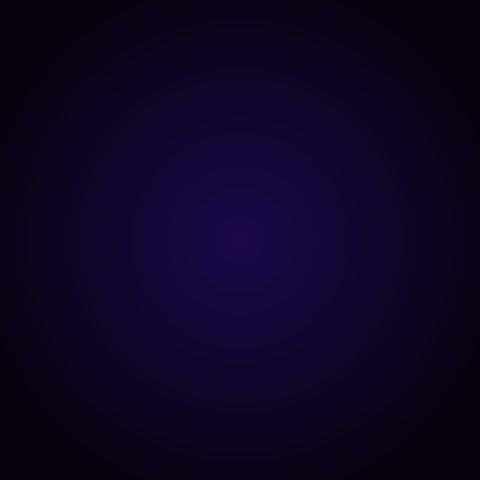
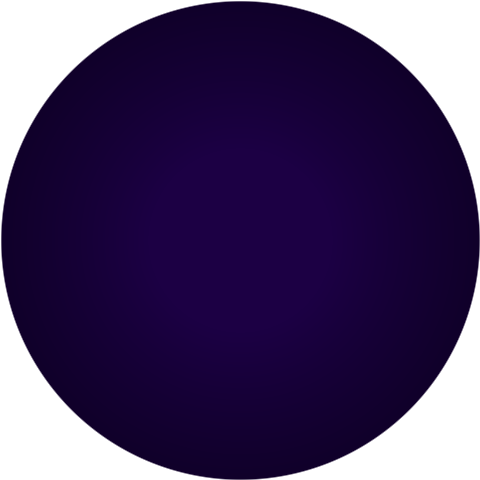
bg

Changed region(s): [[0.0, 0.0, 1.0, 1.0], [0.5312, 0.5312, 1.0, 1.0]]

diff --git a/watchface/editTypesUtil.js b/watchface/editTypesUtil.js
@@ -53,6 +53,7 @@ const weatherArray  = Array.from({ length: 29 }, (_, i) => `weather/${i}.png`)
 const moonArray     = Array.from({ length: 29 }, (_, i) => `moon/${i + 1}.png`)
 const heartArray    = Array.from({ length: 6 },  (_, i) => `${heartPath}${i + 1}.png`)
 const uviArray      = Array.from({ length: 5 },  (_, i) => `${UVIPath}${i + 1}.png`)
+const aqiArray      = Array.from({ length: 6 },  (_, i) => `aqi/${i + 1}.png`)
 const windDirArray  = Array.from({ length: 8 },  (_, i) => `wind/wind_${i}.png`)
 
 // ─── Slot geometry ────────────────────────────────────────────────────────────
@@ -101,6 +102,7 @@ const WIDGET_DEFS = {
   // ── speciali ──────────────────────────────────────────────────────────────
   [edit_type.HEART]:             { r:'heart',    dt: data_type.HEART,             icon:'heart',                     app:SYSTEM_APP_HR,           sysText:true },
   [edit_type.UVI]:               { r:'uvi',      dt: data_type.UVI,               icon:'UVI',                       app:SYSTEM_APP_WEATHER,      invalid:true },
+  [edit_type.AQI]:               { r:'aqi',      dt: data_type.AQI,               icon:'aqi',                       app:SYSTEM_APP_WEATHER,      invalid:true },
   [edit_type.MOON]:              { r:'moon',     dt: data_type.MOON,                                                app:SYSTEM_APP_SUN_AND_MOON },
   [edit_type.WEATHER]:           { r:'weather',  dt: data_type.WEATHER_CURRENT,                     bg:'weather',   app:SYSTEM_APP_WEATHER,      unit:'degree', neg:true, invalid:'w' },
   // ── nuovi ─────────────────────────────────────────────────────────────────
@@ -121,6 +123,7 @@ export const widgetOptionalArray = [
   { type: edit_type.BATTERY,      preview: previewPath + 'bat.png'      },
   { type: edit_type.HEART,        preview: previewPath + 'heart.png'    },
   { type: edit_type.UVI,          preview: previewPath + 'UVI.png'      },
+  { type: edit_type.AQI,          preview: previewPath + 'aqi.png'      },
   { type: edit_type.PAI,          preview: previewPath + 'Pai.png'      },
   { type: edit_type.DISTANCE,     preview: previewPath + 'dis.png'      },
   { type: edit_type.STAND,        preview: previewPath + 'stand.png'    },
@@ -350,6 +353,29 @@ export default class EditTypesUtil {
           type: def.dt, show_level: show_level.ONLY_NORMAL,
         }).addEventListener(event.CLICK_DOWN, launch)
         // indice UVI gestito dal sistema via TEXT_FONT
+        createWidget(widget.TEXT_FONT, {
+          x: numX, y: numY, w: bgw, h: numH,
+          type: def.dt, text_size: px(26), color: 0xffffff,
+          align_h: align.CENTER_H, align_v: align.CENTER_V,
+          show_level: show_level.ONLY_NORMAL,
+        }).addEventListener(event.CLICK_DOWN, launch)
+        if (iconPath) {
+          createWidget(widget.IMG, {
+            x: iconX, y: iconY, src: iconPath,
+            show_level: show_level.ONLY_NORMAL,
+          }).addEventListener(event.CLICK_DOWN, launch)
+        }
+        break
+
+      case 'aqi':
+        createWidget(widget.IMG, {
+          x: bgx, y: bgy, alpha: 255, src: 'aqi/aqi0.png',
+          show_level: show_level.ONLY_NORMAL,
+        }).addEventListener(event.CLICK_DOWN, launch)
+        createWidget(widget.IMG_LEVEL, {
+          x: bgx, y: bgy, image_array: aqiArray, image_length: aqiArray.length,
+          type: def.dt, show_level: show_level.ONLY_NORMAL,
+        }).addEventListener(event.CLICK_DOWN, launch)
         createWidget(widget.TEXT_FONT, {
           x: numX, y: numY, w: bgw, h: numH,
           type: def.dt, text_size: px(26), color: 0xffffff,

diff --git a/watchface/colorSelector.js b/watchface/colorSelector.js
@@ -7,7 +7,7 @@ const BASE = 0x186a0
 export const NO_OVERRIDE_TYPE = BASE + 0
 
 // ── Named color constants ─────────────────────────────────────────────────────
-// Use these in themes.js for readable references: COLOR.WARM_GOLD, COLOR.CORAL, …
+// Use these in backgrounds.js for readable references: COLOR.WARM_GOLD, COLOR.CORAL, …
 export const COLOR = {
   // ── Curated override palette (IDs 1-12, shown in per-zone picker) ──────────
   WHITE:             BASE +  1,

diff --git a/watchface/backgrounds.js b/watchface/backgrounds.js
@@ -1,0 +1,8 @@
+export const backgrounds = [
+  { id: 0, preview: 'bg/BG_black.png',  path: 'bg/BG_black.png',  name: 'Nero'   },
+  { id: 1, preview: 'bg/BG_grey.png',   path: 'bg/BG_grey.png',   name: 'Grigio' },
+  { id: 2, preview: 'bg/BG_cosmo.png',  path: 'bg/BG_cosmo.png',  name: 'Cosmo'  },
+  { id: 3, preview: 'bg/BG_aurora.png', path: 'bg/BG_aurora.png', name: 'Aurora' },
+  { id: 4, preview: 'bg/BG_braci.png',  path: 'bg/BG_braci.png',  name: 'Braci'  },
+  { id: 5, preview: 'bg/BG_abisso.png', path: 'bg/BG_abisso.png', name: 'Abisso' },
+]

diff --git a/watchface/index.js b/watchface/index.js
@@ -5,7 +5,7 @@ import { Time } from '@zos/sensor'
 import { launchApp, SYSTEM_APP_CALENDAR } from '@zos/router'
 import { LocalStorage } from '@zos/storage'
 import NumberToText from './numberToText.js'
-import { backgrounds } from './themes.js'
+import { backgrounds } from './backgrounds.js'
 import EditTypesUtil, { widgetOptionalArray, BLANK_TYPE } from './editTypesUtil.js'
 import { getLanguage } from '@zos/settings'
 import {

diff --git a/tools/gen_backgrounds.py b/tools/gen_backgrounds.py
@@ -1,0 +1,131 @@
+#!/usr/bin/env python3
+"""
+Regenerate watchface background images.
+- 480x480 RGBA PNG
+- Circular mask with anti-aliased edge (transparent corners)
+- Smooth gradients computed in linear light, saved in sRGB
+"""
+
+import numpy as np
+from PIL import Image
+import os
+
+SIZE   = 480
+CX, CY = SIZE // 2, SIZE // 2
+OUT    = os.path.join(os.path.dirname(__file__), '..', 'assets', 'default-target.r', 'bg')
+
+# ── Helpers ───────────────────────────────────────────────────────────────────
+
+def srgb_to_linear(c):
+    return np.where(c <= 0.04045, c / 12.92, ((c + 0.055) / 1.055) ** 2.4)
+
+def linear_to_srgb(c):
+    c = np.clip(c, 0.0, 1.0)
+    return np.where(c <= 0.0031308, c * 12.92, 1.055 * c ** (1.0 / 2.4) - 0.055)
+
+def circular_mask(size=SIZE, soft=1.5):
+    """Anti-aliased circle alpha [0..1]."""
+    y, x = np.ogrid[:size, :size]
+    dist = np.sqrt((x - CX) ** 2 + (y - CY) ** 2)
+    return np.clip((size / 2 - dist) / soft, 0.0, 1.0)
+
+def radial(cx=CX, cy=CY, sigma=160, size=SIZE):
+    """Gaussian radial blob, peak=1 at (cx,cy)."""
+    y, x = np.mgrid[:size, :size]
+    return np.exp(-((x - cx) ** 2 + (y - cy) ** 2) / (2.0 * sigma ** 2))
+
+def linear_grad(angle_deg=0, size=SIZE):
+    """Linear gradient 0→1 in the given direction."""
+    y, x = np.mgrid[:size, :size]
+    a = np.radians(angle_deg)
+    g = x * np.cos(a) + y * np.sin(a)
+    g = (g - g.min()) / (g.max() - g.min())
+    return g
+
+def blend(c0, c1, t):
+    """Linear interpolation between two RGB tuples [0..1], t is (H,W) array."""
+    t3 = t[:, :, np.newaxis]
+    return np.clip(np.array(c0) * (1 - t3) + np.array(c1) * t3, 0, 1)
+
+def save(name, rgb_linear, mask):
+    """Gamma-correct → uint8 → save RGBA PNG."""
+    rgb_srgb = linear_to_srgb(rgb_linear)
+    r = (rgb_srgb[:, :, 0] * 255).astype(np.uint8)
+    g = (rgb_srgb[:, :, 1] * 255).astype(np.uint8)
+    b = (rgb_srgb[:, :, 2] * 255).astype(np.uint8)
+    a = (mask * 255).astype(np.uint8)
+    img = Image.fromarray(np.stack([r, g, b, a], axis=-1), 'RGBA')
+    path = os.path.join(OUT, name)
+    img.save(path, optimize=False)
+    print(f'  {name}')
+
+mask = circular_mask()
+
+# ── BG_black ──────────────────────────────────────────────────────────────────
+# Pure black, circular
+rgb = np.zeros((SIZE, SIZE, 3))
+save('BG_black.png', rgb, mask)
+
+# ── BG_grey ───────────────────────────────────────────────────────────────────
+# Mid-dark grey, flat, circular
+base = srgb_to_linear(np.full((SIZE, SIZE, 3), 0.235))
+save('BG_grey.png', base, mask)
+
+def hex_to_linear(r, g, b):
+    """sRGB 0-255 → linear [0..1] array for blending math."""
+    return srgb_to_linear(np.array([r / 255.0, g / 255.0, b / 255.0]))
+
+# ── BG_cosmo ──────────────────────────────────────────────────────────────────
+# Very dark near-black base, subtle purple radial glow at centre
+dark   = hex_to_linear(  5,  0,  8)   # #050008  near-black indigo
+bright = hex_to_linear( 28,  0, 68)   # #1c0044  deep purple highlight
+
+blob  = radial(CX, CY, sigma=180)
+blob2 = radial(CX, CY, sigma=70) * 0.5   # tighter inner hotspot
+t = np.clip(blob * 0.9 + blob2, 0, 1)
+rgb = blend(dark, bright, t)
+save('BG_cosmo.png', rgb, mask)
+
+# ── BG_abisso ─────────────────────────────────────────────────────────────────
+# Deep-sea blue, diffuse glow from top-centre
+dark   = hex_to_linear(  2,  8, 18)   # #020812  deep navy
+bright = hex_to_linear( 10, 50, 90)   # #0a325a  ocean blue highlight
+
+blob  = radial(CX, CY - 120, sigma=210)
+blob2 = radial(CX, CY -  70, sigma=80) * 0.45
+t = np.clip(blob * 0.85 + blob2, 0, 1)
+rgb = blend(dark, bright, t)
+save('BG_abisso.png', rgb, mask)
+
+# ── BG_aurora ─────────────────────────────────────────────────────────────────
+# Dark navy → deep teal diagonal sweep (top-right bright, bottom-left dark)
+dark   = hex_to_linear(  2,  7, 14)   # #02070e  dark blue-black
+bright = hex_to_linear( 10, 58, 52)   # #0a3a34  deep teal
+
+diag = linear_grad(angle_deg=-45)     # 0 = bottom-left, 1 = top-right
+# Off-centre radial softens the diagonal to prevent any linear banding
+blob = radial(CX + 60, CY - 70, sigma=230) * 0.45
+t = np.clip(diag * 0.80 + blob, 0, 1)
+# Vignette towards circular edge for depth
+t = t * (0.55 + 0.45 * radial(CX + 40, CY - 50, sigma=280))
+t = np.clip(t, 0, 1)
+rgb = blend(dark, bright, t)
+save('BG_aurora.png', rgb, mask)
+
+# ── BG_braci ──────────────────────────────────────────────────────────────────
+# Near-black warm base, subtle ember/amber glow at lower-centre
+dark   = hex_to_linear(  6,  2,  0)   # #060200  near-black warm
+amber  = hex_to_linear( 62, 18,  0)   # #3e1200  deep amber
+ember  = hex_to_linear( 88, 32,  4)   # #582004  bright ember core
+
+blob  = radial(CX + 20, CY + 130, sigma=200)       # large soft bloom
+blob2 = radial(CX + 10, CY + 150, sigma=80) * 0.55  # tighter hotspot
+
+t_amber = np.clip(blob  * 0.85, 0, 1)
+t_ember = np.clip(blob2 * 0.80, 0, 1)
+
+rgb = blend(dark,  amber, t_amber)
+rgb = blend(rgb,   ember, t_ember)
+save('BG_braci.png', rgb, mask)
+
+print('Done.')

diff --git a/tools/gen_aqi_images.py b/tools/gen_aqi_images.py
@@ -1,0 +1,122 @@
+#!/usr/bin/env python3
+"""
+Generate AQI widget images:
+  - assets/.../aqi/aqi0.png   : background arc (dim, all segments)
+  - assets/.../aqi/1..6.png   : level images, rainbow fill left→right
+  - assets/.../xicon/aqi.png  : 32x32 icon
+"""
+
+import numpy as np
+from PIL import Image, ImageDraw
+import os, math
+
+BASE = os.path.join(os.path.dirname(__file__), '..', 'assets', 'default-target.r')
+AQI_DIR = os.path.join(BASE, 'aqi')
+os.makedirs(AQI_DIR, exist_ok=True)
+
+# ── Arc geometry (matches UVI style, 84×84) ───────────────────────────────────
+SIZE   = 84
+CX, CY = 42, 46          # centre slightly below middle (opening at bottom)
+RADIUS = 34
+THICK  = 7               # stroke thickness
+N_SEGS = 12              # total segments along the arc
+GAP    = 6               # degrees gap between segments
+
+# Arc spans from START_ANG to END_ANG (degrees, 0=right, CCW)
+START_ANG = 220   # lower-left  (clockwise from lower-left to lower-right)
+END_ANG   = 320   # lower-right
+ARC_SPAN  = 360 - (END_ANG - START_ANG)   # = 260 degrees of arc
+
+# AQI level colours (6 bands: Good→Moderate→Sensitive→Unhealthy→Very→Hazardous)
+LEVEL_COLORS = [
+    (0x00, 0xe4, 0x00),   # 1 – Good          green
+    (0xff, 0xff, 0x00),   # 2 – Moderate       yellow
+    (0xff, 0x7e, 0x00),   # 3 – Sensitive      orange
+    (0xff, 0x00, 0x00),   # 4 – Unhealthy      red
+    (0x8f, 0x3f, 0x97),   # 5 – Very Unhealthy purple
+    (0x7e, 0x00, 0x23),   # 6 – Hazardous      maroon
+]
+DIM_COLOR = (0x55, 0x55, 0x55, 120)   # unlit segment colour
+
+def seg_color_for_index(seg_i, n_segs):
+    """Gradient colour for segment seg_i (0-based) across LEVEL_COLORS."""
+    t = seg_i / (n_segs - 1)          # 0..1
+    idx = t * (len(LEVEL_COLORS) - 1)
+    lo  = int(idx)
+    hi  = min(lo + 1, len(LEVEL_COLORS) - 1)
+    f   = idx - lo
+    c0, c1 = LEVEL_COLORS[lo], LEVEL_COLORS[hi]
+    return tuple(int(c0[i] + f * (c1[i] - c0[i])) for i in range(3))
+
+def draw_segment(draw, seg_i, n_segs, color, alpha=255):
+    """Draw one arc segment as a thick arc slice."""
+    # Angle of this segment's centre (degrees, PIL convention: 0=right, CW)
+    # We go CW from START_ANG, distributing N_SEGS segments with gaps
+    slot_deg = (ARC_SPAN - N_SEGS * GAP) / N_SEGS      # degrees per segment body
+    start_offset = seg_i * (slot_deg + GAP)
+    # PIL angles: 0=3 o'clock, increases CW
+    # Our arc starts at START_ANG going counter-clockwise (mathematically)
+    # Map: PIL_start = START_ANG + start_offset, PIL_end = + slot_deg
+    a0 = START_ANG + start_offset
+    a1 = a0 + slot_deg
+
+    r, g, b = color
+    # Draw as a series of dots along the arc centre line
+    n_dots = max(2, int(slot_deg * RADIUS * math.pi / 180 / 2))
+    for k in range(n_dots + 1):
+        ang = math.radians(a0 + (a1 - a0) * k / n_dots)
+        # PIL angles go CW; math angles go CCW — adjust
+        px = CX + RADIUS * math.cos(ang)
+        py = CY + RADIUS * math.sin(ang)
+        h = THICK // 2
+        draw.ellipse([px - h, py - h, px + h, py + h], fill=(r, g, b, alpha))
+
+def make_image(lit_segs):
+    """lit_segs: number of segments lit from the left (0 = background only)."""
+    img  = Image.new('RGBA', (SIZE, SIZE), (0, 0, 0, 0))
+    draw = ImageDraw.Draw(img)
+    for i in range(N_SEGS):
+        if i < lit_segs:
+            col = seg_color_for_index(i, N_SEGS)
+            draw_segment(draw, i, N_SEGS, col, alpha=230)
+        else:
+            draw_segment(draw, i, N_SEGS, (0x44, 0x44, 0x44), alpha=100)
+    return img
+
+# Background (all dim)
+bg = make_image(0)
+bg.save(os.path.join(AQI_DIR, 'aqi0.png'))
+print('  aqi/aqi0.png')
+
+# 6 level images — lit segments grow in blocks of 2
+segs_per_level = N_SEGS // len(LEVEL_COLORS)   # = 2
+for lvl in range(1, 7):
+    img = make_image(lvl * segs_per_level)
+    img.save(os.path.join(AQI_DIR, f'{lvl}.png'))
+    print(f'  aqi/{lvl}.png')
+
+# ── xicon/aqi.png  32×32 ──────────────────────────────────────────────────────
+# Small version of the rainbow arc (no numbers)
+ICON = 32
+ICX, ICY = 16, 18
+IRAD, ITHICK = 12, 4
+icon = Image.new('RGBA', (ICON, ICON), (0, 0, 0, 0))
+idraw = ImageDraw.Draw(icon)
+
+n = N_SEGS
+slot_deg = (ARC_SPAN - n * GAP) / n
+for i in range(n):
+    a0 = START_ANG + i * (slot_deg + GAP)
+    a1 = a0 + slot_deg
+    col = seg_color_for_index(i, n)
+    n_dots = max(2, int((a1 - a0) * IRAD * math.pi / 180 / 1.5))
+    for k in range(n_dots + 1):
+        ang = math.radians(a0 + (a1 - a0) * k / n_dots)
+        px = ICX + IRAD * math.cos(ang)
+        py = ICY + IRAD * math.sin(ang)
+        h  = ITHICK // 2
+        idraw.ellipse([px - h, py - h, px + h, py + h], fill=(*col, 220))
+
+icon.save(os.path.join(BASE, 'xicon', 'aqi.png'))
+print('  xicon/aqi.png')
+print('Done.')
